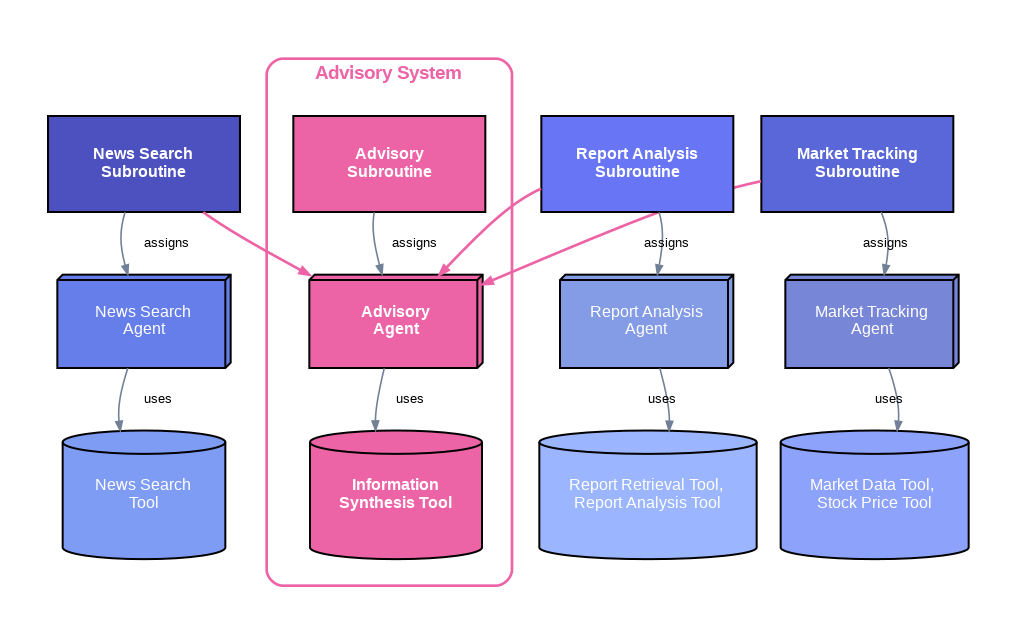
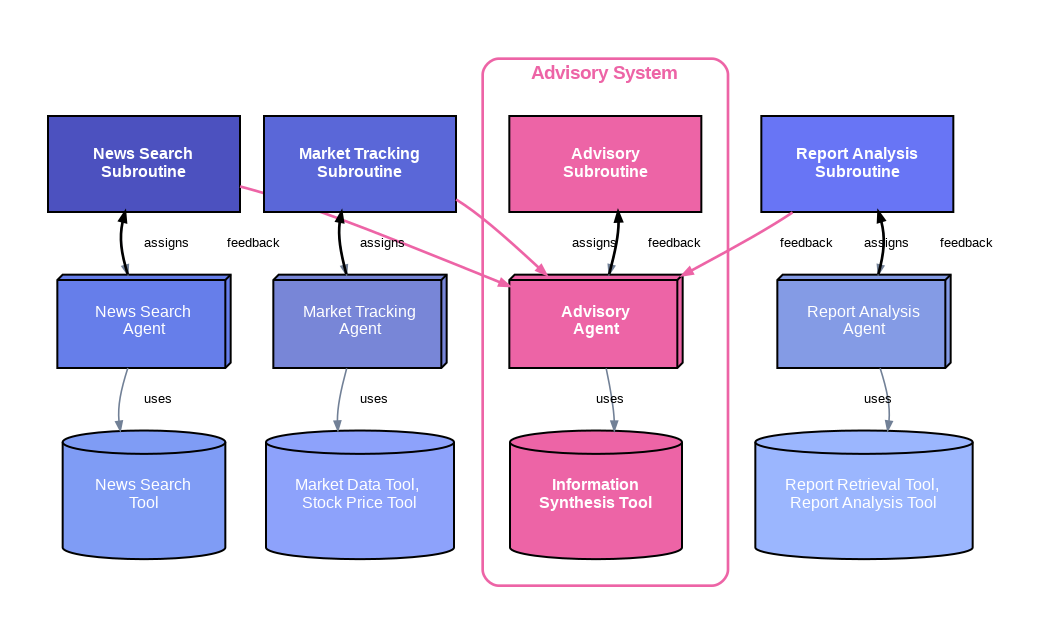
update diagram visualization

diff --git a/diagram/diagram.py b/diagram/diagram.py
@@ -36,7 +36,7 @@ class ColorScheme:
     
     # Edge colors
     EDGE_PRIMARY = "#718096"
-    EDGE_FEEDBACK = "#718096"
+    EDGE_FEEDBACK = "#000000"
     EDGE_INFO = "#ED64A6"
 
 class AdvisorySystemConfig:
@@ -162,12 +162,12 @@ class AdvisorySystemConfig:
                 ('Market Track Task', 'Advisor', {'color': self.colors.EDGE_INFO, 'style': 'bold', 'label': '', 'penwidth': '2', 'fontname': 'Arial'}),
                 ('Report Analysis Task', 'Advisor', {'color': self.colors.EDGE_INFO, 'style': 'bold', 'label': '', 'penwidth': '2', 'fontname': 'Arial'})
             ],
-            # 'feedback': [
-            #     ('News Searcher', 'News Search Task', {'color': self.colors.EDGE_FEEDBACK, 'label': 'feedback', 'fontname': 'Arial', 'constraint': 'false'}),
-            #     ('Market Tracker', 'Market Track Task', {'color': self.colors.EDGE_FEEDBACK, 'label': 'feedback', 'fontname': 'Arial', 'constraint': 'false'}),
-            #     ('Report Analyst', 'Report Analysis Task', {'color': self.colors.EDGE_FEEDBACK, 'label': 'feedback', 'fontname': 'Arial', 'constraint': 'false'}),
-            #     ('Advisor', 'Advisory Task', {'color': self.colors.EDGE_FEEDBACK, 'label': 'feedback', 'fontname': 'Arial', 'constraint': 'false'})
-            # ]
+            'feedback': [
+                ('News Searcher', 'News Search Task', {'color': self.colors.EDGE_FEEDBACK, 'label': 'feedback', 'dir': 'back','penwidth': '2', 'constraint': 'false', 'fontname': 'Arial'}),
+                ('Market Tracker', 'Market Track Task', {'color': self.colors.EDGE_FEEDBACK, 'label': 'feedback', 'dir': 'back', 'penwidth': '2', 'constraint': 'false', 'fontname': 'Arial'}),
+                ('Report Analyst', 'Report Analysis Task', {'color': self.colors.EDGE_FEEDBACK, 'label': 'feedback', 'dir': 'back', 'penwidth': '2', 'constraint': 'false', 'fontname': 'Arial'}),
+                ('Advisor', 'Advisory Task', {'color': self.colors.EDGE_FEEDBACK, 'label': 'feedback', 'dir': 'back', 'penwidth': '2', 'constraint': 'false', 'fontname': 'Arial'})
+            ]
         }
 
 class AdvisoryDiagramGenerator:

diff --git a/diagram/new_dia.py b/diagram/new_dia.py
@@ -1,0 +1,57 @@
+class NewsSearchTool:
+    def search_news(self):
+        return "News data retrieved."
+
+class MarketDataTool:
+    def fetch_market_data(self):
+        return "Market data retrieved."
+
+class ReportRetrievalTool:
+    def retrieve_report(self):
+        return "Report retrieved."
+
+class InformationSynthesisTool:
+    def synthesize_information(self, data):
+        return f"Synthesis result based on: {data}"
+
+class NewsSearchAgent:
+    def __init__(self):
+        self.tool = NewsSearchTool()
+
+    def execute(self):
+        return self.tool.search_news()
+
+class MarketTrackingAgent:
+    def __init__(self):
+        self.tool = MarketDataTool()
+
+    def execute(self):
+        return self.tool.fetch_market_data()
+
+class ReportAnalysisAgent:
+    def __init__(self):
+        self.tool = ReportRetrievalTool()
+
+    def execute(self):
+        return self.tool.retrieve_report()
+
+class AdvisoryAgent:
+    def __init__(self):
+        self.tool = InformationSynthesisTool()
+
+    def process_data(self, news_data, market_data, report_data):
+        combined_data = f"{news_data}, {market_data}, {report_data}"
+        return self.tool.synthesize_information(combined_data)
+
+# Simulating the system
+news_agent = NewsSearchAgent()
+market_agent = MarketTrackingAgent()
+report_agent = ReportAnalysisAgent()
+advisory_agent = AdvisoryAgent()
+
+news_data = news_agent.execute()
+market_data = market_agent.execute()
+report_data = report_agent.execute()
+
+advisory_result = advisory_agent.process_data(news_data, market_data, report_data)
+print(advisory_result)
